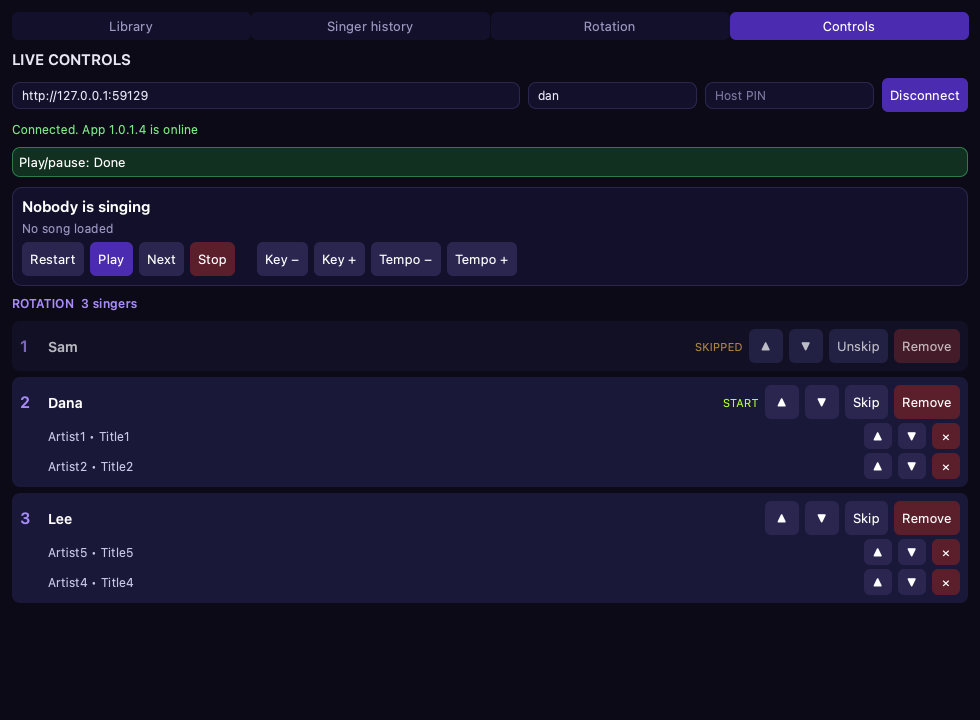
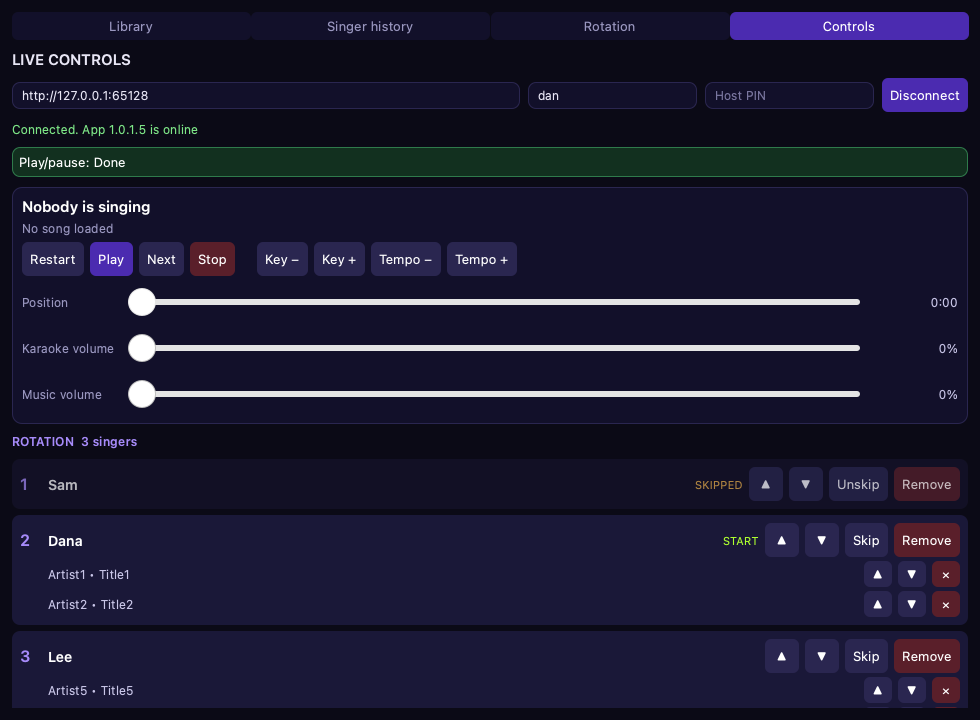
Controls tab: seek and volume sliders (one command per release)

Changed region(s): [[0.0, 0.3972, 1.0, 1.0], [0.949, 0.3972, 0.9796, 0.4278], [0.1224, 0.1222, 0.1531, 0.1528]]

diff --git a/rust/crates/singws-shell/qml/ControlsPage.qml b/rust/crates/singws-shell/qml/ControlsPage.qml
@@ -34,6 +34,30 @@ Item {
         background: Rectangle { radius: 6; color: !b.enabled ? "#15132b" : (b.down ? Qt.darker(b.tone, 1.3) : b.tone) }
     }
 
+    // A slider that follows the app's value until the user grabs it; it sends ONE command when released (or on a keyboard change), so dragging never floods the relay.
+    component Dial: RowLayout {
+        id: d
+        property string caption: ""
+        property real shown: 0
+        property real maximum: 1
+        property string valueText: ""
+        signal commit(real value)
+        spacing: 8
+        Label { text: d.caption; color: "#9a97c0"; font.pixelSize: 12; Layout.preferredWidth: 92 }
+        Slider {
+            id: sl
+            Layout.fillWidth: true
+            from: 0
+            to: d.maximum
+            enabled: page.view.enabled && d.maximum > 0
+            Accessible.name: d.caption
+            Binding { target: sl; property: "value"; value: Math.min(d.shown, d.maximum); when: !sl.pressed }
+            onPressedChanged: if (!pressed) d.commit(value)
+            onMoved: if (!pressed) d.commit(value)
+        }
+        Label { text: d.valueText; color: "#c9c6e8"; font.pixelSize: 12; Layout.preferredWidth: 84; horizontalAlignment: Text.AlignRight }
+    }
+
     Component.onCompleted: {
         urlField.text = arg("--control-url") !== "" ? arg("--control-url") : panel.savedUrl
         userField.text = arg("--control-user") !== "" ? arg("--control-user") : panel.savedUser
@@ -190,6 +214,28 @@ Item {
                     Btn { text: "Key +"; onClicked: page.act("Key up", "key_up") }
                     Btn { text: "Tempo −"; onClicked: page.act("Tempo down", "tempo_down") }
                     Btn { text: "Tempo +"; onClicked: page.act("Tempo up", "tempo_up") }
+                }
+                Dial {
+                    Layout.fillWidth: true
+                    caption: "Position"
+                    shown: page.view.playback.position
+                    maximum: page.view.playback.duration
+                    valueText: Math.floor(page.view.playback.position / 60) + ":" + ("0" + Math.floor(page.view.playback.position % 60)).slice(-2)
+                    onCommit: function (v) { page.act("Seek to " + Math.floor(v / 60) + ":" + ("0" + Math.floor(v % 60)).slice(-2), "seek_to", {seconds: Math.round(v * 10) / 10}) }
+                }
+                Dial {
+                    Layout.fillWidth: true
+                    caption: "Karaoke volume"
+                    shown: page.view.playback.karaoke_volume
+                    valueText: Math.round(page.view.playback.karaoke_volume * 100) + "%"
+                    onCommit: function (v) { page.act("Karaoke volume " + Math.round(v * 100) + "%", "set_karaoke_volume", {value: Math.round(v * 100) / 100}) }
+                }
+                Dial {
+                    Layout.fillWidth: true
+                    caption: "Music volume"
+                    shown: page.view.playback.bgm_volume
+                    valueText: Math.round(page.view.playback.bgm_volume * 100) + "%"
+                    onCommit: function (v) { page.act("Music volume " + Math.round(v * 100) + "%", "set_bg_volume", {value: Math.round(v * 100) / 100}) }
                 }
             }
         }

diff --git a/tools/shell_loopback.py b/tools/shell_loopback.py
@@ -94,6 +94,23 @@ def scenario_dry_run_shows_a_dry_run_and_changes_nothing():
         assert final["order"] == ["s1", "s2", "s3"] and final["played"] == []
 
 
+def scenario_the_volume_and_seek_commands_reach_the_app_with_their_values():
+    """The Controls tab's sliders call act() with these exact commands; they must arrive validated, tagged `shell`, with no list fingerprint."""
+    with cl.Stack("apply") as st:
+        script = [
+            {"label": "Karaoke volume 50%", "command": "set_karaoke_volume", "args": {"value": 0.5}},
+            {"label": "Music volume 30%", "command": "set_bg_volume", "args": {"value": 0.3}},
+            {"label": "Seek to 0:12", "command": "seek_to", "args": {"seconds": 12.0}},
+        ]
+        view, p, _ = run_shell(st, script)
+        assert view is not None, p.stderr[-800:]
+        cmds = commands_seen(st)
+        assert [c["command"] for c in cmds[:3]] == ["set_karaoke_volume", "set_bg_volume", "seek_to"], [c["command"] for c in cmds]
+        assert cmds[0]["args"]["value"] == 0.5 and cmds[1]["args"]["value"] == 0.3 and cmds[2]["args"]["seconds"] == 12.0, cmds[:3]
+        for c in cmds[:3]:
+            assert c["args"]["source"] == "shell" and "expect_queue_sig" not in c["args"], c
+
+
 def scenario_a_wrong_pin_shows_the_refusal_and_enables_nothing():
     with cl.Stack("apply") as st:
         view, p, _ = run_shell(st, [], pin="9999", snapshot_after=6000)
